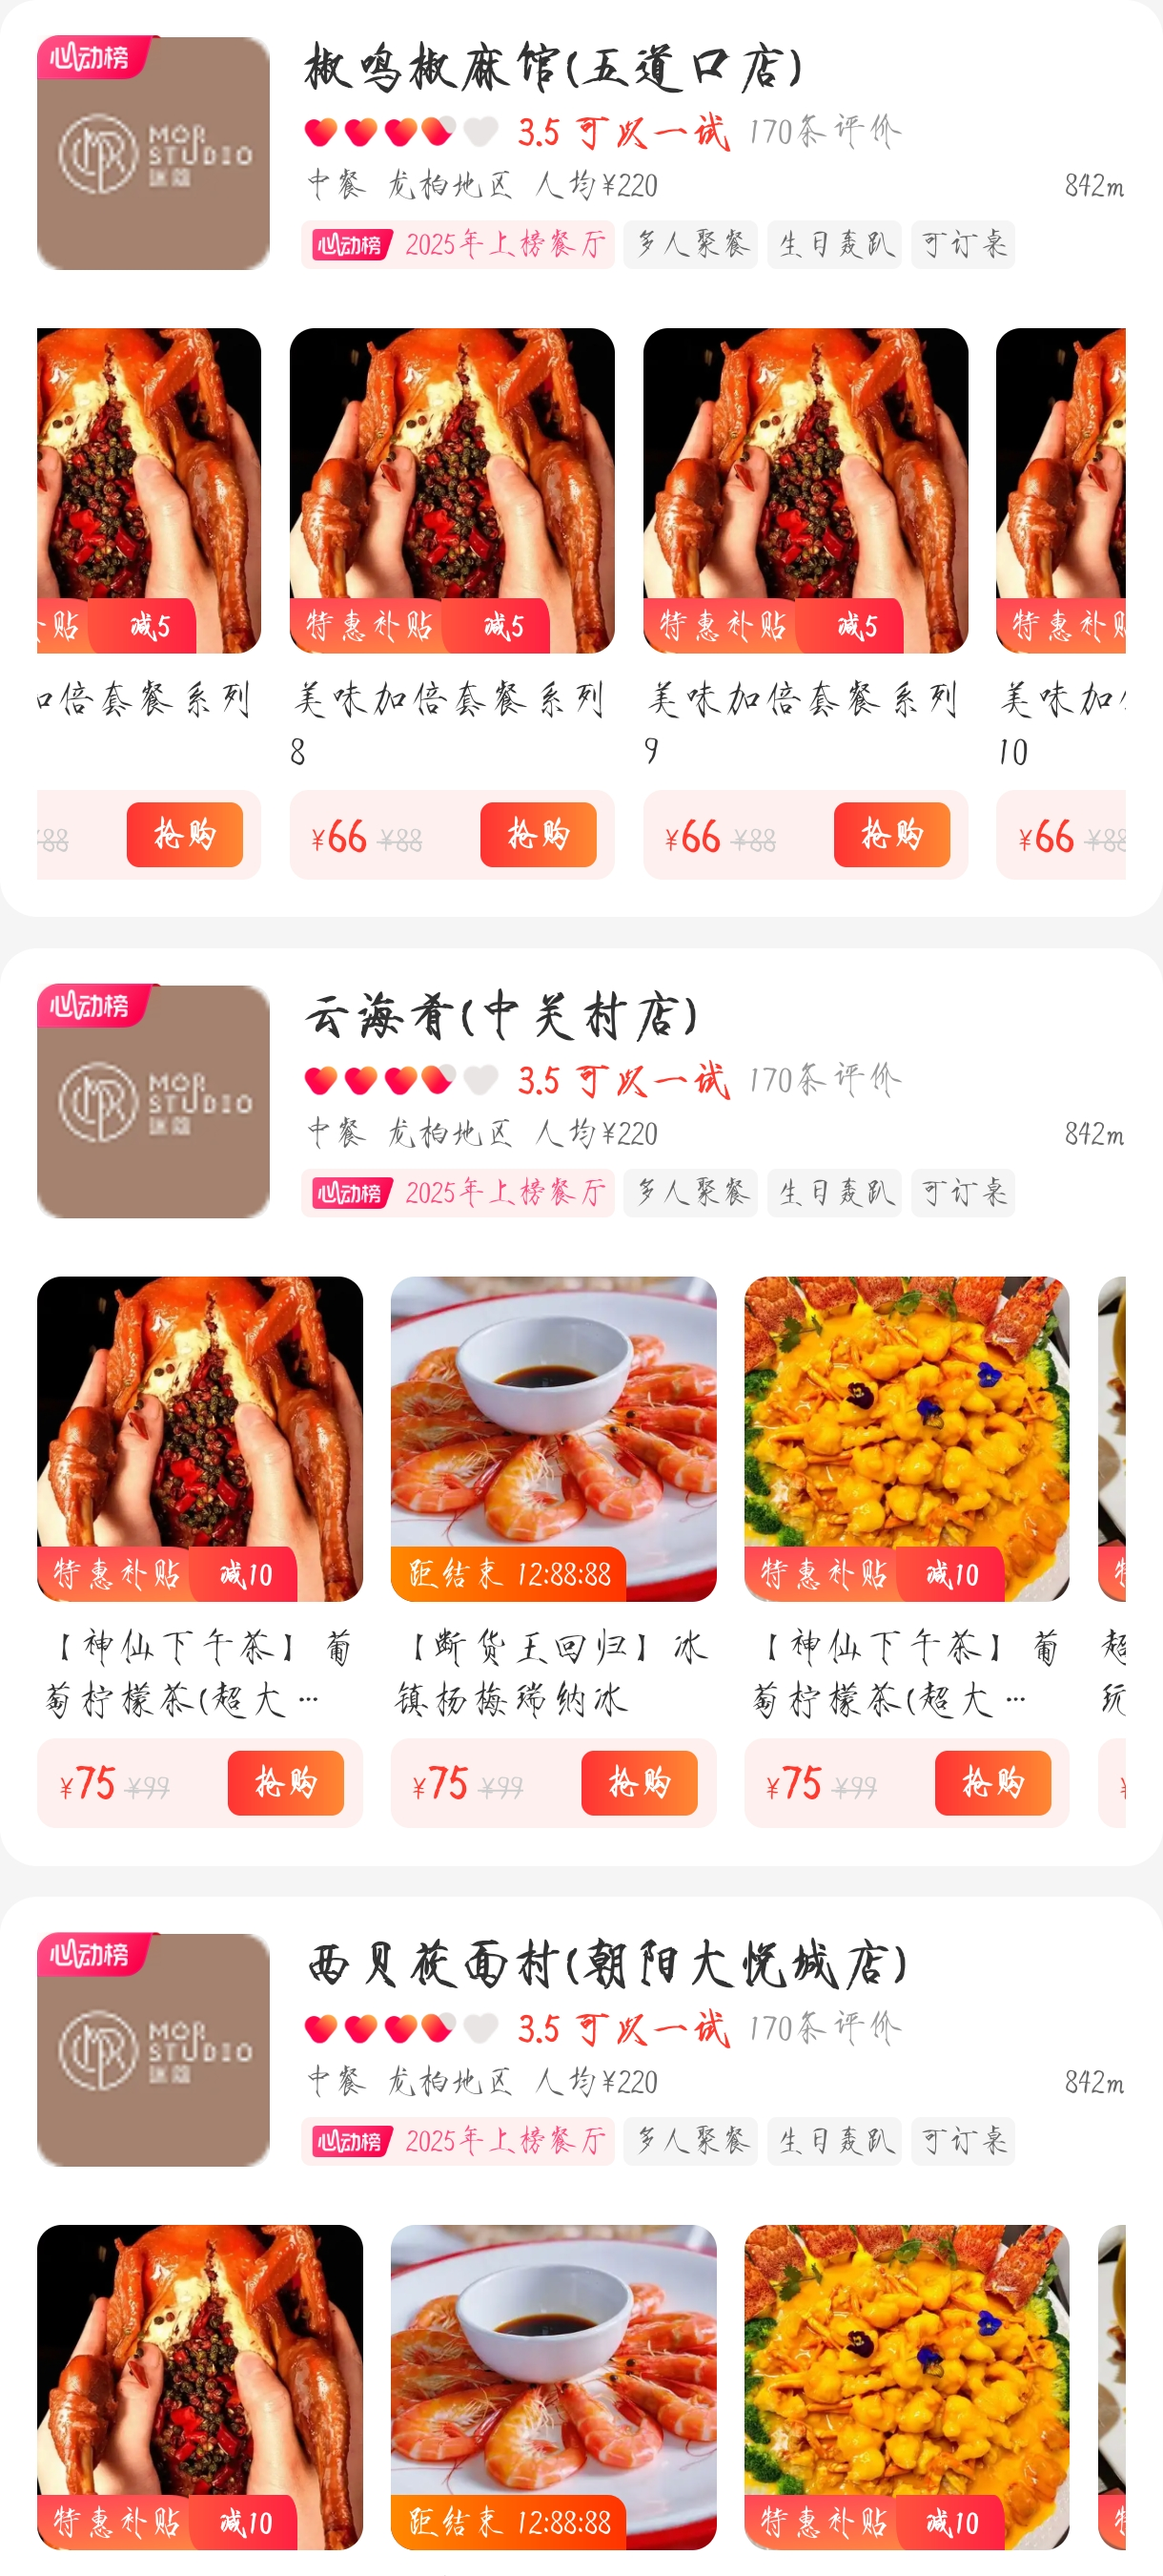
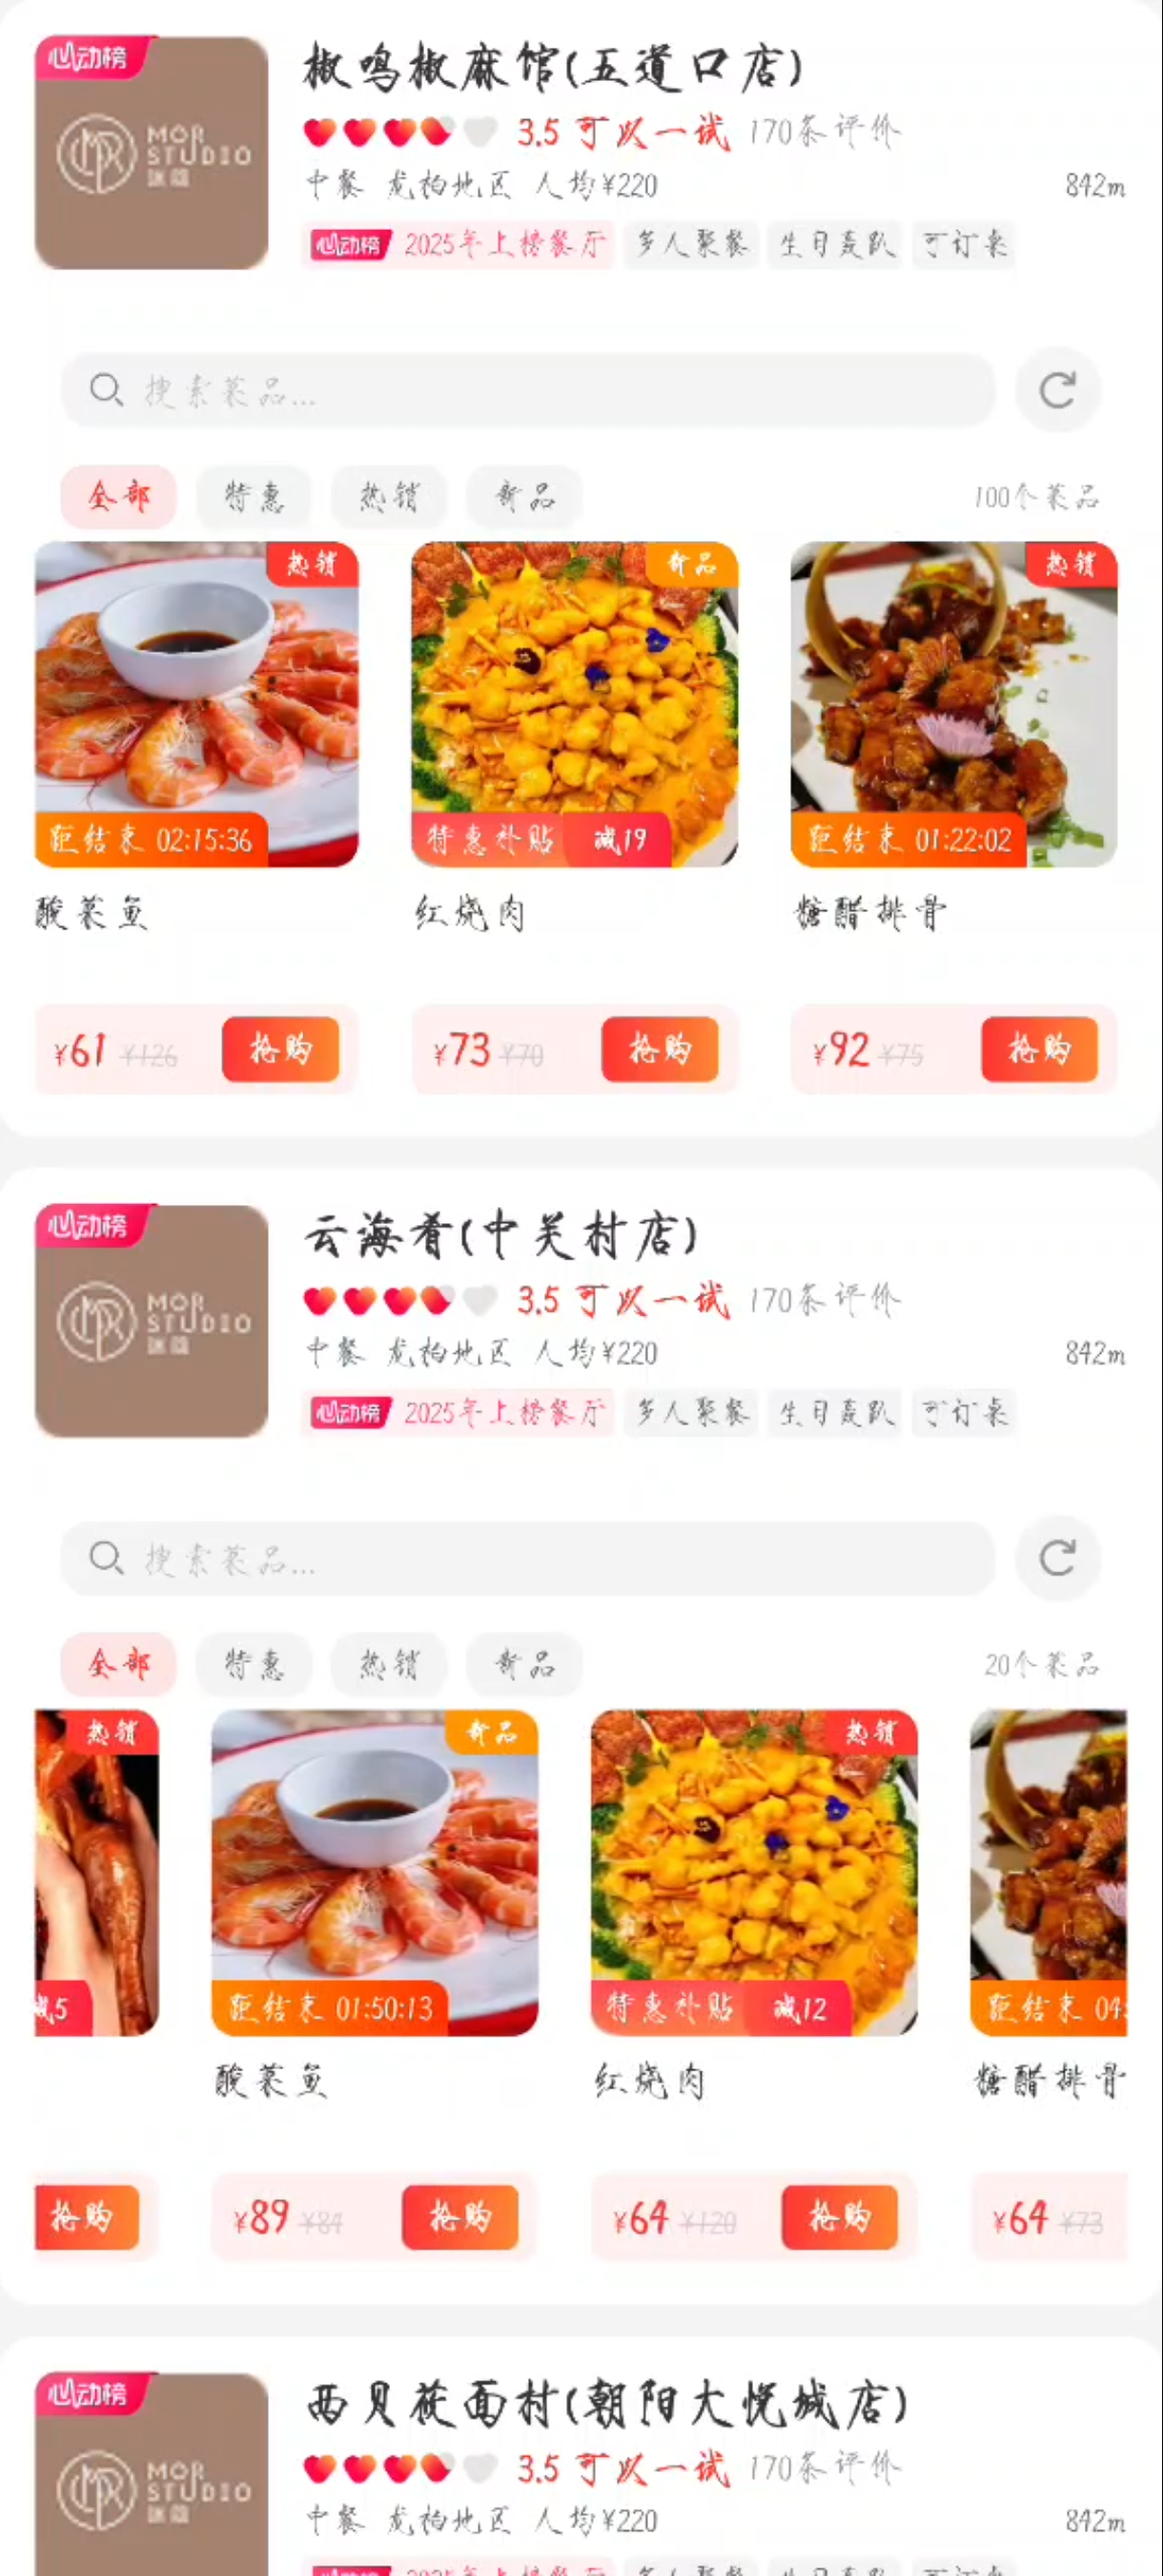
fix: 修复样式bug

diff --git a/src/RestaurantCard.tsx b/src/RestaurantCard.tsx
@@ -109,9 +109,8 @@ const FALLBACK_DISHES: DishItem[] = [
   },
 ];
 
-// ========================================
+
 // 倒计时 Hook
-// ========================================
 function useCountdown(endTime: number | undefined) {
   const [timeLeft, setTimeLeft] = useState('');
 

diff --git a/src/RestaurantCard.css b/src/RestaurantCard.css
@@ -372,9 +372,7 @@
     font-weight: bold;
 }
 
-/* ========================================
-   新功能样式：搜索、筛选、弹窗、倒计时
-   ======================================== */
+
 
 /* 菜品列表容器 */
 .dish-list-container {

diff --git a/src/index.css b/src/index.css
@@ -54,8 +54,8 @@
   padding-left: 20px;
   padding-right: 20px;
   height: calc(100% - 48px);
-  list-main-axis-gap: 10px;
-  list-cross-axis-gap: 10px;
+  /* list-main-axis-gap: 10px; */
+  /* list-cross-axis-gap: 10px; */
 }
 
 .picture-wrapper {

diff --git a/project.md b/project.md
@@ -3,14 +3,14 @@
 ## 一、基础功能实现
 
 ### 1. 餐厅列表
-- App组件作为根容器，scroll-view实现纵向滚动列表，循环渲染RestaurantCard组件展示餐厅信息。
-- App.tsx: 餐厅卡片数据源cardDataList，包含餐厅 ID 和名称等基础信息，通过 Props 传递给子组件。
+- App: 根容器，scroll-view: 纵向滚动列表，循环渲染RestaurantCard组件展示餐厅信息。
+- App.tsx: 餐厅卡片数据源cardDataList，包含餐厅ID和名称等基础信息，通过Props传递给子组件。
 - App.css: 全局容器样式，设置100vw和100vh的视口占比，使用#f5f5f5作为背景色，移除内边距确保列表从顶部开始排列。
 
 ### 2. 餐厅卡片组件
-- 卡片布局：RestaurantCard组件采用上下分区设计，上半部分展示餐厅基本信息，下半部分展示菜品列表。
+- 卡片布局：RestaurantCard组件采用上下分区设计，上半部分：餐厅基本信息；下半部分：菜品列表。
 - 餐厅信息展示：
-    - 左侧显示餐厅 Logo 及角标（如 "2025 年上榜餐厅" 标识）
+    - 左侧显示餐厅Logo及角标（如 "2025 年上榜餐厅" 标识）
     - 右侧分四行展示：餐厅名称（文字溢出省略）、评分星级、分类\区域\人均消费等元数据、特色标签
 - 菜品滚动展示：
     - 使用 Lynx `<list>` 组件实现菜品列表水平滚动，支持100个团购商品
@@ -18,7 +18,7 @@
     - 标签类型：补贴+减价组合标签、倒计时标签等，绝对定位实现标签叠加
 
 ### 3. Mock 数据服务
-- 使用 Node.js Express 搭建本地 Mock Server（server.cjs）
+- 使用Node.js Express搭建本地Mock Server server.cjs）
 - 支持分页接口：`/api/list/data?page=1&pageSize=10`
 - 服务器绑定 `0.0.0.0`，支持局域网内手机访问
 - 返回真实菜品名称（招牌椒麻鸡、麻辣小龙虾等32种菜品循环）
@@ -28,12 +28,12 @@
 
 ## 二、性能优化（P0）
 
-### 问题背景
+### 问题
 渲染100个团购商品会导致首次渲染耗时较长，但用户首屏只能看到有限的几个商品。
 
 ### 优化方案
 
-#### 【高级】使用 `<list>` 组件实现滚动加载
+#### 使用 `<list>` 组件实现滚动加载
 将原有的 `<scroll-view>` 替换为 Lynx 的 `<list>` 组件，利用其内置的**元素回收**和**懒加载**机制：
 
 ```tsx
@@ -69,7 +69,7 @@
 | **预估尺寸** | 使用 `estimated-main-axis-size-px` 让列表提前计算布局 |
 | **分页请求** | 每次只请求10条数据，减少首屏网络开销 |
 
-#### 【可选】性能监控 API 集成
+#### 性能监控 API 集成
 集成 Lynx 提供的 `MetricActualFmpEntry` 性能监控：
 
 1. **添加性能指标记录对象**：
@@ -101,7 +101,7 @@ useEffect(() => {
 ## 三、了解编译流程（P1）
 
 ### 目标
-学习 rspeedy 的编译配置，将输出的图片名称重命名为 `[name].[你的名字].[contenthash:8][ext]` 格式。
+学习 rspeedy 的编译配置，将输出的图片名称重命名为 `[name].[名字].[contenthash:8][ext]` 格式。
 
 ### 实现方式
 在 `lynx.config.ts` 中配置 `output.filename.image`：
@@ -121,7 +121,7 @@ export default defineConfig({
 
 ### 配置说明
 - `[name]`：原始文件名
-- `.gyy.`：自定义的作者标识
+- `.gyy.`：作者标识
 - `[contenthash:8]`：8位内容哈希，用于缓存控制
 - `[ext]`：原始文件扩展名
 
@@ -140,7 +140,7 @@ dist/static/
 ### 目标
 开发一个 Rspack 插件，在所有产物文件（JS、CSS、HTML、JSON）的头部添加自定义注释。
 
-### 插件实现
+### 实现
 文件位置：`plugins/banner-plugin.js`
 
 ```javascript
@@ -207,14 +207,14 @@ export default defineConfig({
 
 ---
 
-## 五、交互功能增强（P2）
+## 五、添加交互功能
 
-### 1. 倒计时动态更新 ⏱
+### 1. 倒计时动态更新
 
 #### 功能描述
 对于限时特惠类菜品，显示实时倒计时，每秒自动更新，格式为 `HH:MM:SS`。
 
-#### 实现方式
+#### 实现
 创建自定义 Hook `useCountdown`，使用 `setInterval` 每秒更新剩余时间：
 
 ```tsx
@@ -268,7 +268,7 @@ function DishCard({ item, onTap }) {
 }
 ```
 
-#### 技术要点
+#### 要点
 | 要点 | 说明 |
 |------|------|
 | **条件触发** | 仅当 `item.type === 'timer'` 时启用倒计时 |
@@ -278,7 +278,7 @@ function DishCard({ item, onTap }) {
 
 ---
 
-### 2. 菜品点击交互 👆
+### 2. 菜品点击交互
 
 #### 功能描述
 点击菜品卡片弹出详情弹窗，展示菜品大图、名称、描述、价格和标签信息，支持"立即抢购"操作。
@@ -359,7 +359,7 @@ const handleCloseModal = useCallback(() => {
 
 ---
 
-### 3. 刷新功能 🔄
+### 3. 刷新
 
 #### 功能描述
 提供手动刷新按钮，点击后重新加载第一页数据，刷新期间显示加载状态。
@@ -431,7 +431,7 @@ const handleRefresh = useCallback(async () => {
 
 ---
 
-### 4. 搜索/筛选功能 🔍
+### 4. 搜索/筛选
 
 #### 功能描述
 提供搜索框和筛选标签，支持按菜品名称搜索，按标签（全部/特惠/热销/新品）筛选。
@@ -563,7 +563,7 @@ interface DishItem {
 )}
 ```
 
-**样式定义**：
+**样式**：
 
 ```css
 .dish-tag {
@@ -584,37 +584,6 @@ interface DishItem {
     font-weight: bold;
 }
 ```
-
----
-
-## 六、资源文件说明
-
-### 图标资源
-| 文件 | 用途 |
-|------|------|
-| `assets/sousuo.png` | 搜索框图标 |
-| `assets/huanyihuan.png` | 刷新按钮正常状态图标 |
-| `assets/shouye.png` | 刷新按钮加载状态图标 |
-
-### 菜品图片
-| 文件 | 用途 |
-|------|------|
-| `assets/菜品1.png` | 菜品展示图片 1 |
-| `assets/菜品2.png` | 菜品展示图片 2 |
-| `assets/菜品3.png` | 菜品展示图片 3 |
-| `assets/菜品4.png` | 菜品展示图片 4 |
-
-### 店铺资源
-| 文件 | 用途 |
-|------|------|
-| `assets/Rectangle 5.8.png` | 店铺 Logo |
-| `assets/Group 2090053571.png` | 心动标签 |
-| `assets/Rectangle.png` | 上榜餐厅角标 |
-| `assets/编组_副本.png` | 满星图标 |
-| `assets/编组.png` | 半星图标 |
-| `assets/0.png` | 空星图标 |
-| `assets/Rectangle 4646.png` | 特惠补贴背景 |
-| `assets/Rectangle 3.2.png` | 减价标签背景 |
 
 ---
 
